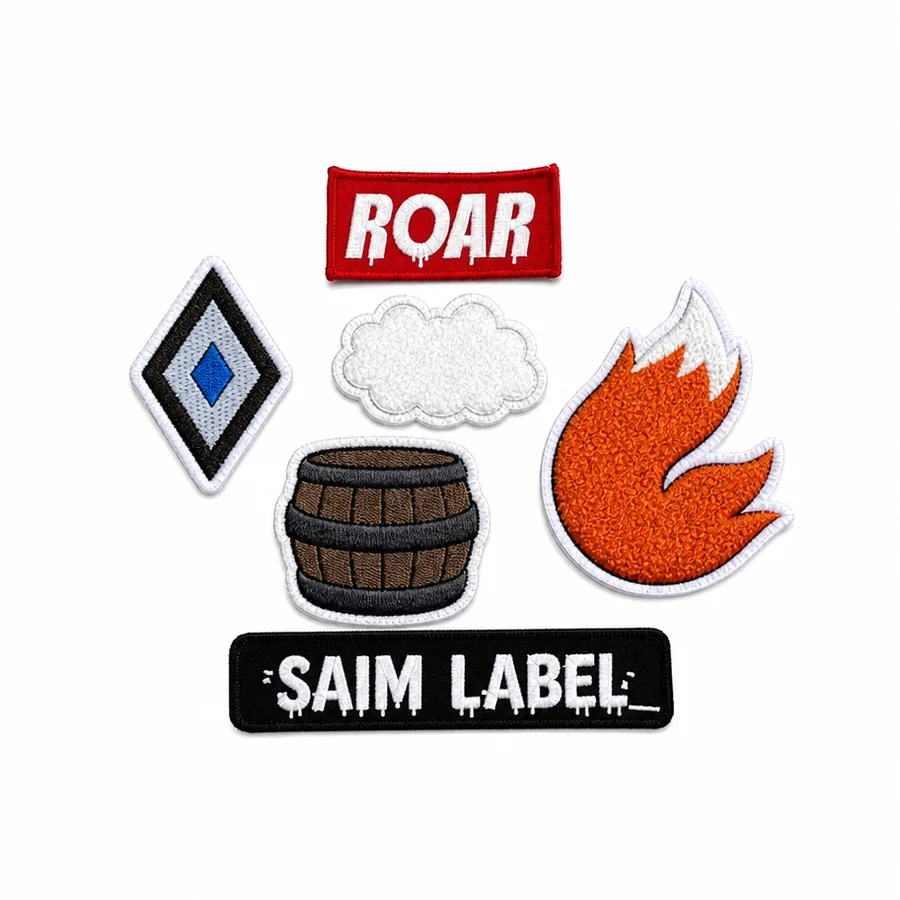
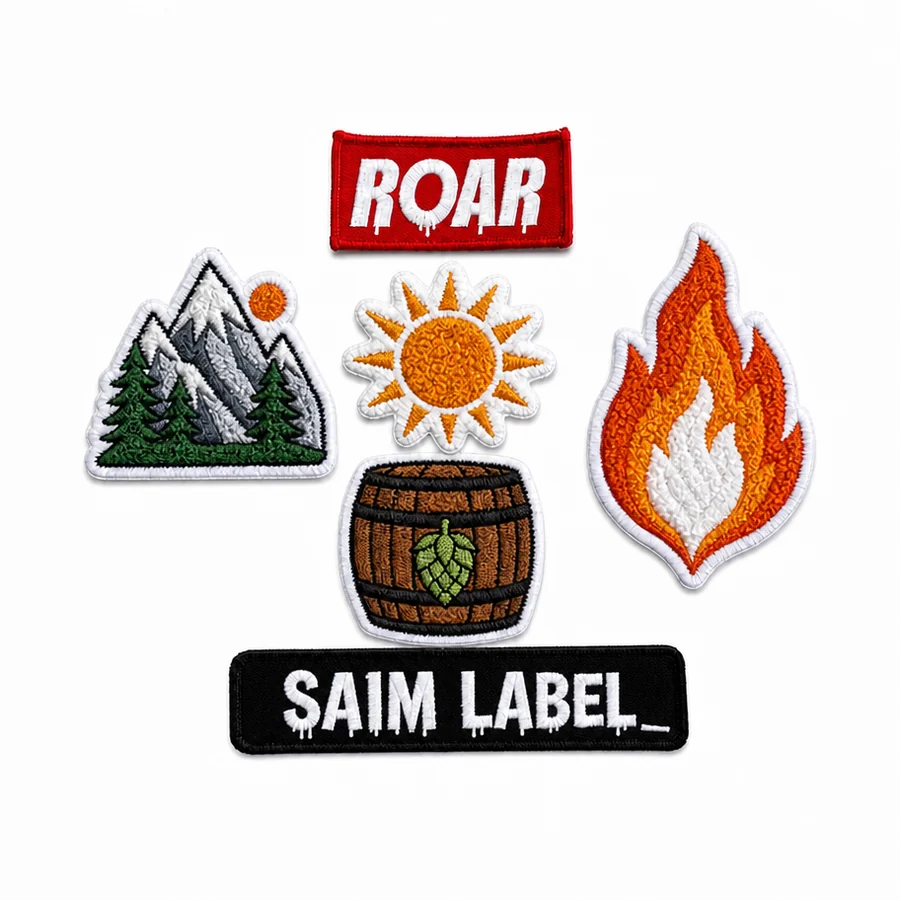
images: give the embroidery-patch card real emblem designs, not blank shapes
The de-identified version of this card was a downgrade: four of its six patches had been cartoon
characters, and stripping the characters left a blank diamond, a featureless cloud and a plain
flame - shapes that read as deleted content rather than as a product. This card is the one the
user rejected, and the criticism was fair.

Rebuilt from the raw photograph rather than from the degraded version, so no artifacts compound.

Four patches now carry finished, saleable emblem designs with the same dense raised stitching and
white merrow borders:
  - the mascot patch      -> a mountain range with two pines and a small sun
  - the cloud-face patch  -> a sun disc with long tapering rays
  - the skull-in-barrel   -> a plain wooden barrel carrying a hop leaf
  - the fox patch         -> a clean tapered flame with a white inner core

These emblems also suit the card's own copy, which promises a "classic badge feel - uniforms,
club crests, caps and workwear" - a fit the cartoon set never had.

Caught during review, before install: rebuilding from the raw source reinstated the original
third-party wordmark on the bottom patch, because the raw photo carries it. A second targeted
pass changed that wording to SAIM LABEL, and the result was read back and confirmed letter for
letter with its drip effect and underline intact. No third-party name ships in this image.

ALT TEXT: index.html and blog/woven-vs-embroidered-patches/index.html both described the motifs
[…]

Changed region(s): [[0.0933, 0.1244, 0.9022, 0.8711]]

diff --git a/index.html b/index.html
@@ -703,7 +703,7 @@ html{scroll-padding-top:88px}
         <div class="meta"><span class="price">from $0.20/pc<small>quoted by size &amp; qty</small></span><span class="go">Explore →</span></div></div>
     </article>
     <article class="card rv"><span class="tag green">Also in-house</span>
-      <div class="thumb"><img src="assets/img/card-emb-patches-v2.webp" alt="Custom embroidered patches in six pieces — a diamond emblem, a plain cloud patch, a barrel, a flame shape, plus ROAR and SAIM LABEL text patches" loading="lazy" decoding="async" width="900" height="900"></div>
+      <div class="thumb"><img src="assets/img/card-emb-patches-v2.webp" alt="Custom embroidered patches in six pieces — a mountain range with pines and a sun, a sun disc, a barrel with a hop leaf and a flame, plus ROAR and SAIM LABEL text patches" loading="lazy" decoding="async" width="900" height="900"></div>
       <div class="pad"><h3><a href="/embroidered-patches/">Custom Embroidery Patches</a></h3>
         <p>Raised 3D stitch texture for the classic badge feel — uniforms, club crests, caps and workwear.</p>
         <div class="meta"><span class="price">from $0.65/pc<small>quoted by size &amp; qty</small></span><span class="go">Explore →</span></div></div>

diff --git a/blog/woven-vs-embroidered-patches/index.html b/blog/woven-vs-embroidered-patches/index.html
@@ -117,7 +117,7 @@
 <li><b>Caps needing 3D puff</b> — foam-backed embroidery pops on curved panels.</li>
 <li><b>Varsity programs</b> — chenille-style lettering for jackets and hoodies.</li>
 </ul>
-<img src="/assets/img/card-emb-patches-v2.webp" alt="Embroidered patches with raised thread texture — character and text patches with dense stitching" width="900" height="900" loading="lazy" decoding="async">
+<img src="/assets/img/card-emb-patches-v2.webp" alt="Embroidered patches with raised thread texture — emblem and text patches with dense stitching" width="900" height="900" loading="lazy" decoding="async">
 <div class="cta-inline"><p>Not sure? Send one artwork, get both constructions quoted.</p><a class="btn primary" href="/quote/">Compare in one RFQ</a></div>
 
 <h2 id="limits">Where each one hits its limit</h2>
